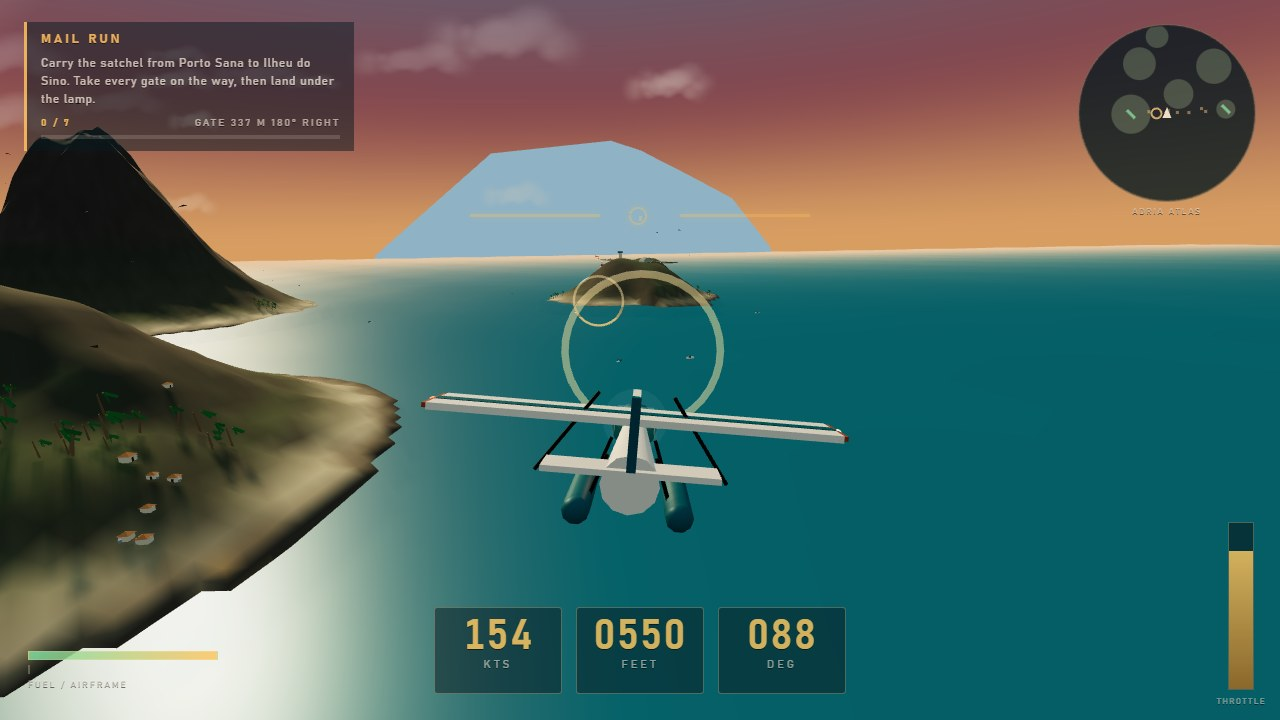
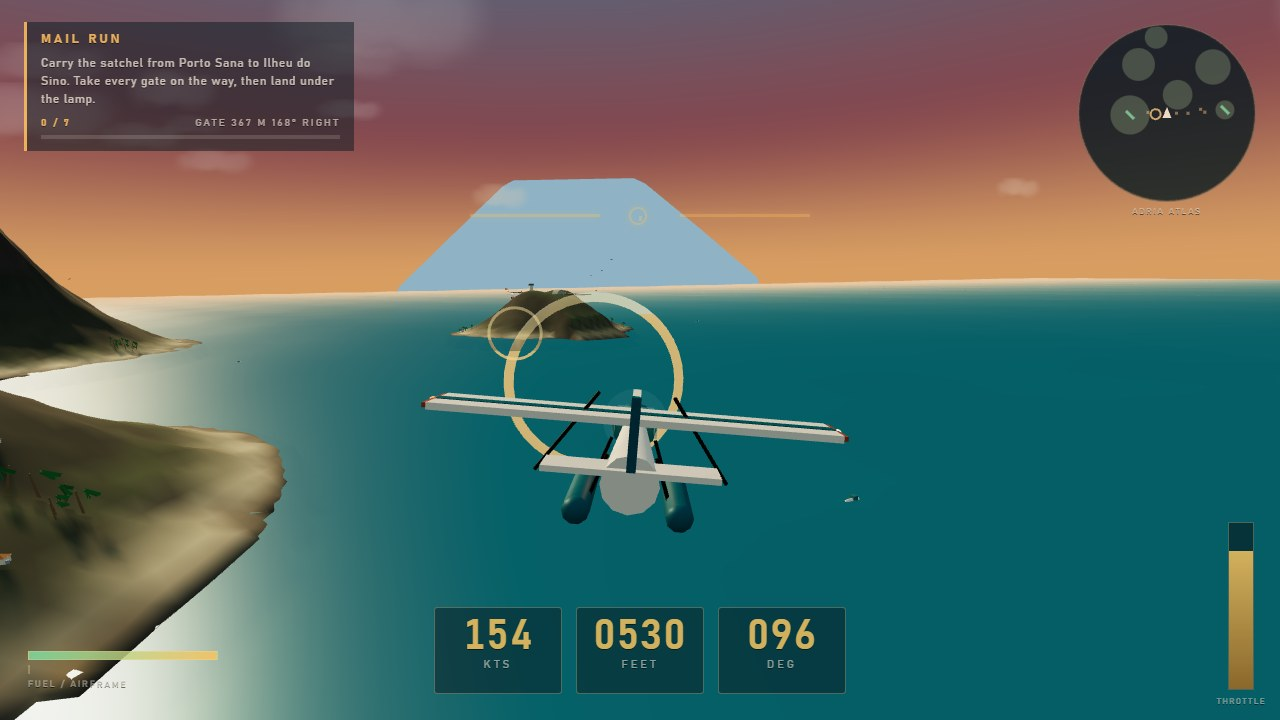
Bolder gate rings, off-axis cover framing

diff --git a/game/src/shots.js b/game/src/shots.js
@@ -35,8 +35,14 @@ export const SHOTS = {
   cover: ({ course }) => {
     const gate = course?.gates[1] ?? course?.gates[0] ?? null;
     if (!gate) return { kind: 'courier' };
-    const from = behindGate(gate, 330, 58);
-    const pose = aim(from, gate.position.clone().add(new THREE.Vector3(0, 12, 0)), { roll: -0.1, pitch: 0.02 });
+    const from = behindGate(gate, 300, 52);
+    // Slide the camera off the gate axis so the ring and the aircraft do not sit on top of
+    // each other, and the shot reads as a diagonal composition.
+    const normal = new THREE.Vector3(0, 0, 1).applyQuaternion(gate.ring.quaternion);
+    from.addScaledVector(new THREE.Vector3(normal.z, 0, -normal.x).normalize(), 22);
+    const side = new THREE.Vector3(normal.z, 0, -normal.x).normalize();
+    const look = gate.position.clone().add(new THREE.Vector3(0, 26, 0)).addScaledVector(side, -26);
+    const pose = aim(from, look, { roll: -0.1, pitch: 0.02 });
     return { ...pose, speed: 79, throttle: 0.83, camera: 'chase', kind: 'courier', gate };
   },
 

diff --git a/game/src/game/gates.js b/game/src/game/gates.js
@@ -5,7 +5,7 @@ import * as THREE from 'three';
 import { PLAY } from '../config.js';
 import { groundAt, ISLANDS } from '../terrain/heightfield.js';
 
-const RING_GEO = new THREE.TorusGeometry(PLAY.ringRadius, 2.2, 8, 36);
+const RING_GEO = new THREE.TorusGeometry(PLAY.ringRadius, 2.6, 8, 40);
 const RING_MAT = new THREE.MeshStandardMaterial({
   color: '#ffcf7a',
   emissive: '#ffa53c',
@@ -15,8 +15,8 @@ const RING_MAT = new THREE.MeshStandardMaterial({
 });
 const NEXT_MAT = new THREE.MeshStandardMaterial({
   color: '#fff4d6',
-  emissive: '#ffe6ae',
-  emissiveIntensity: 3.4,
+  emissive: '#ffe9ba',
+  emissiveIntensity: 5.2,
   roughness: 0.3,
 });
 
